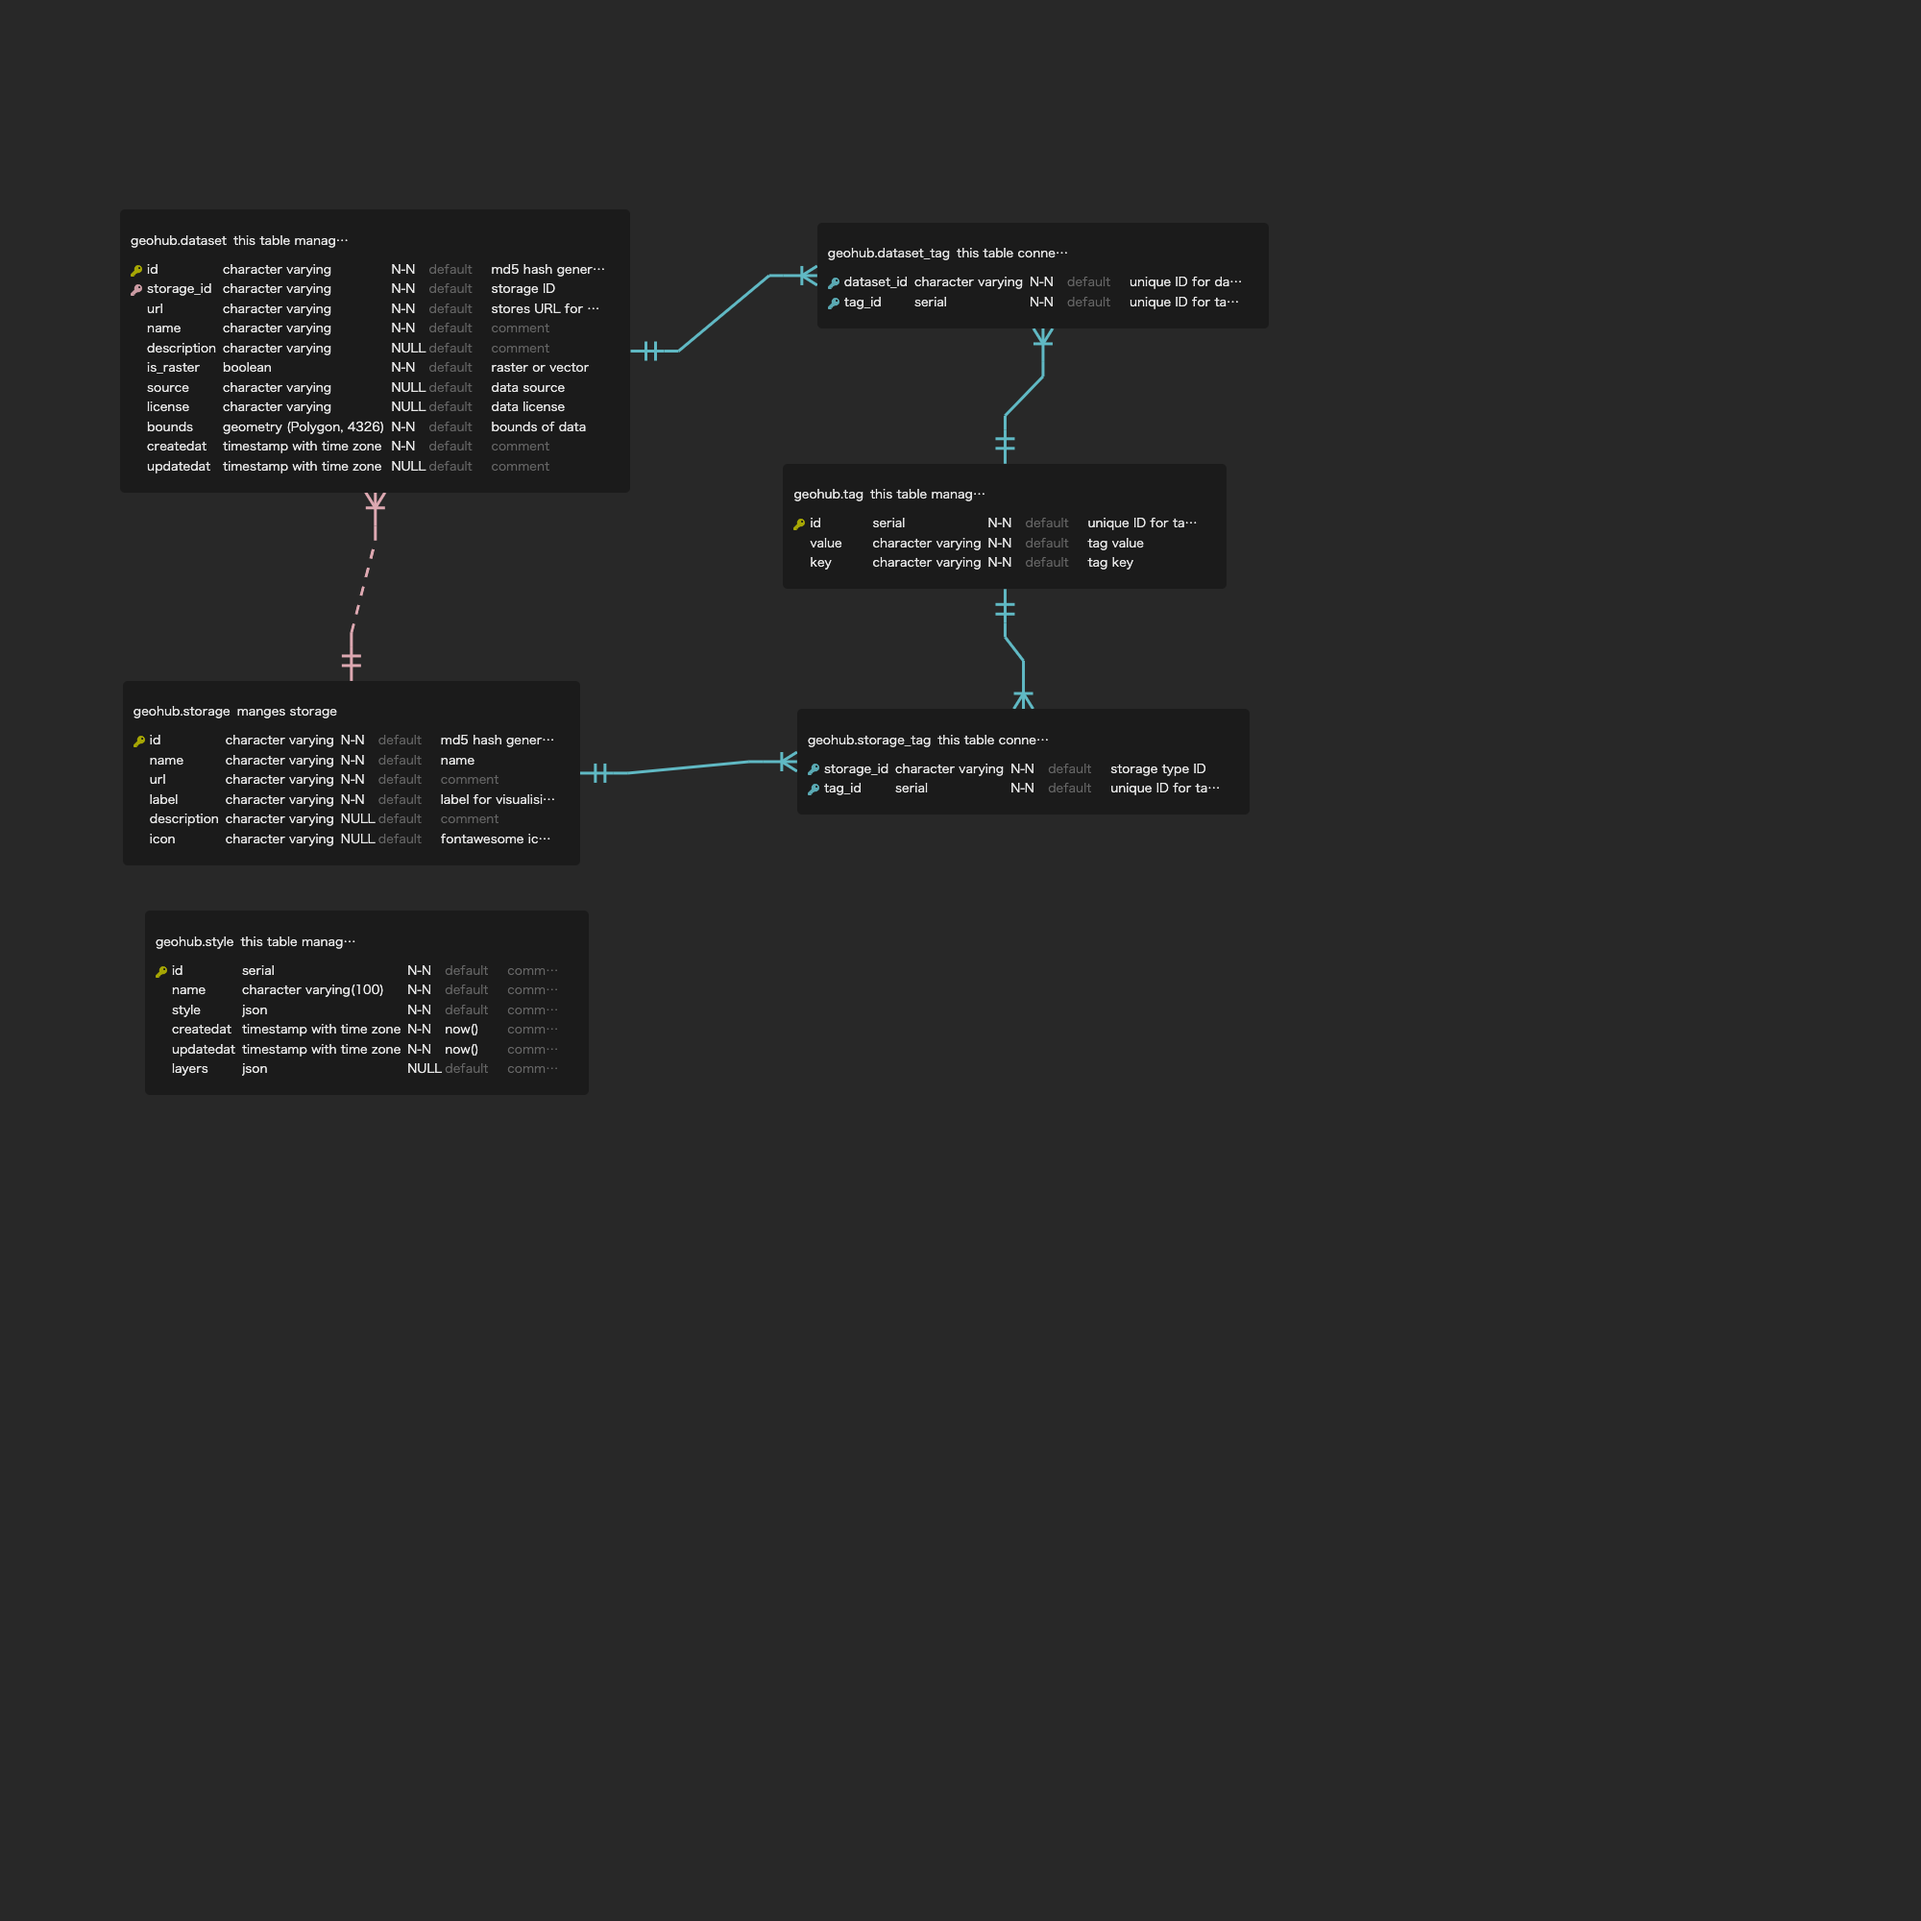
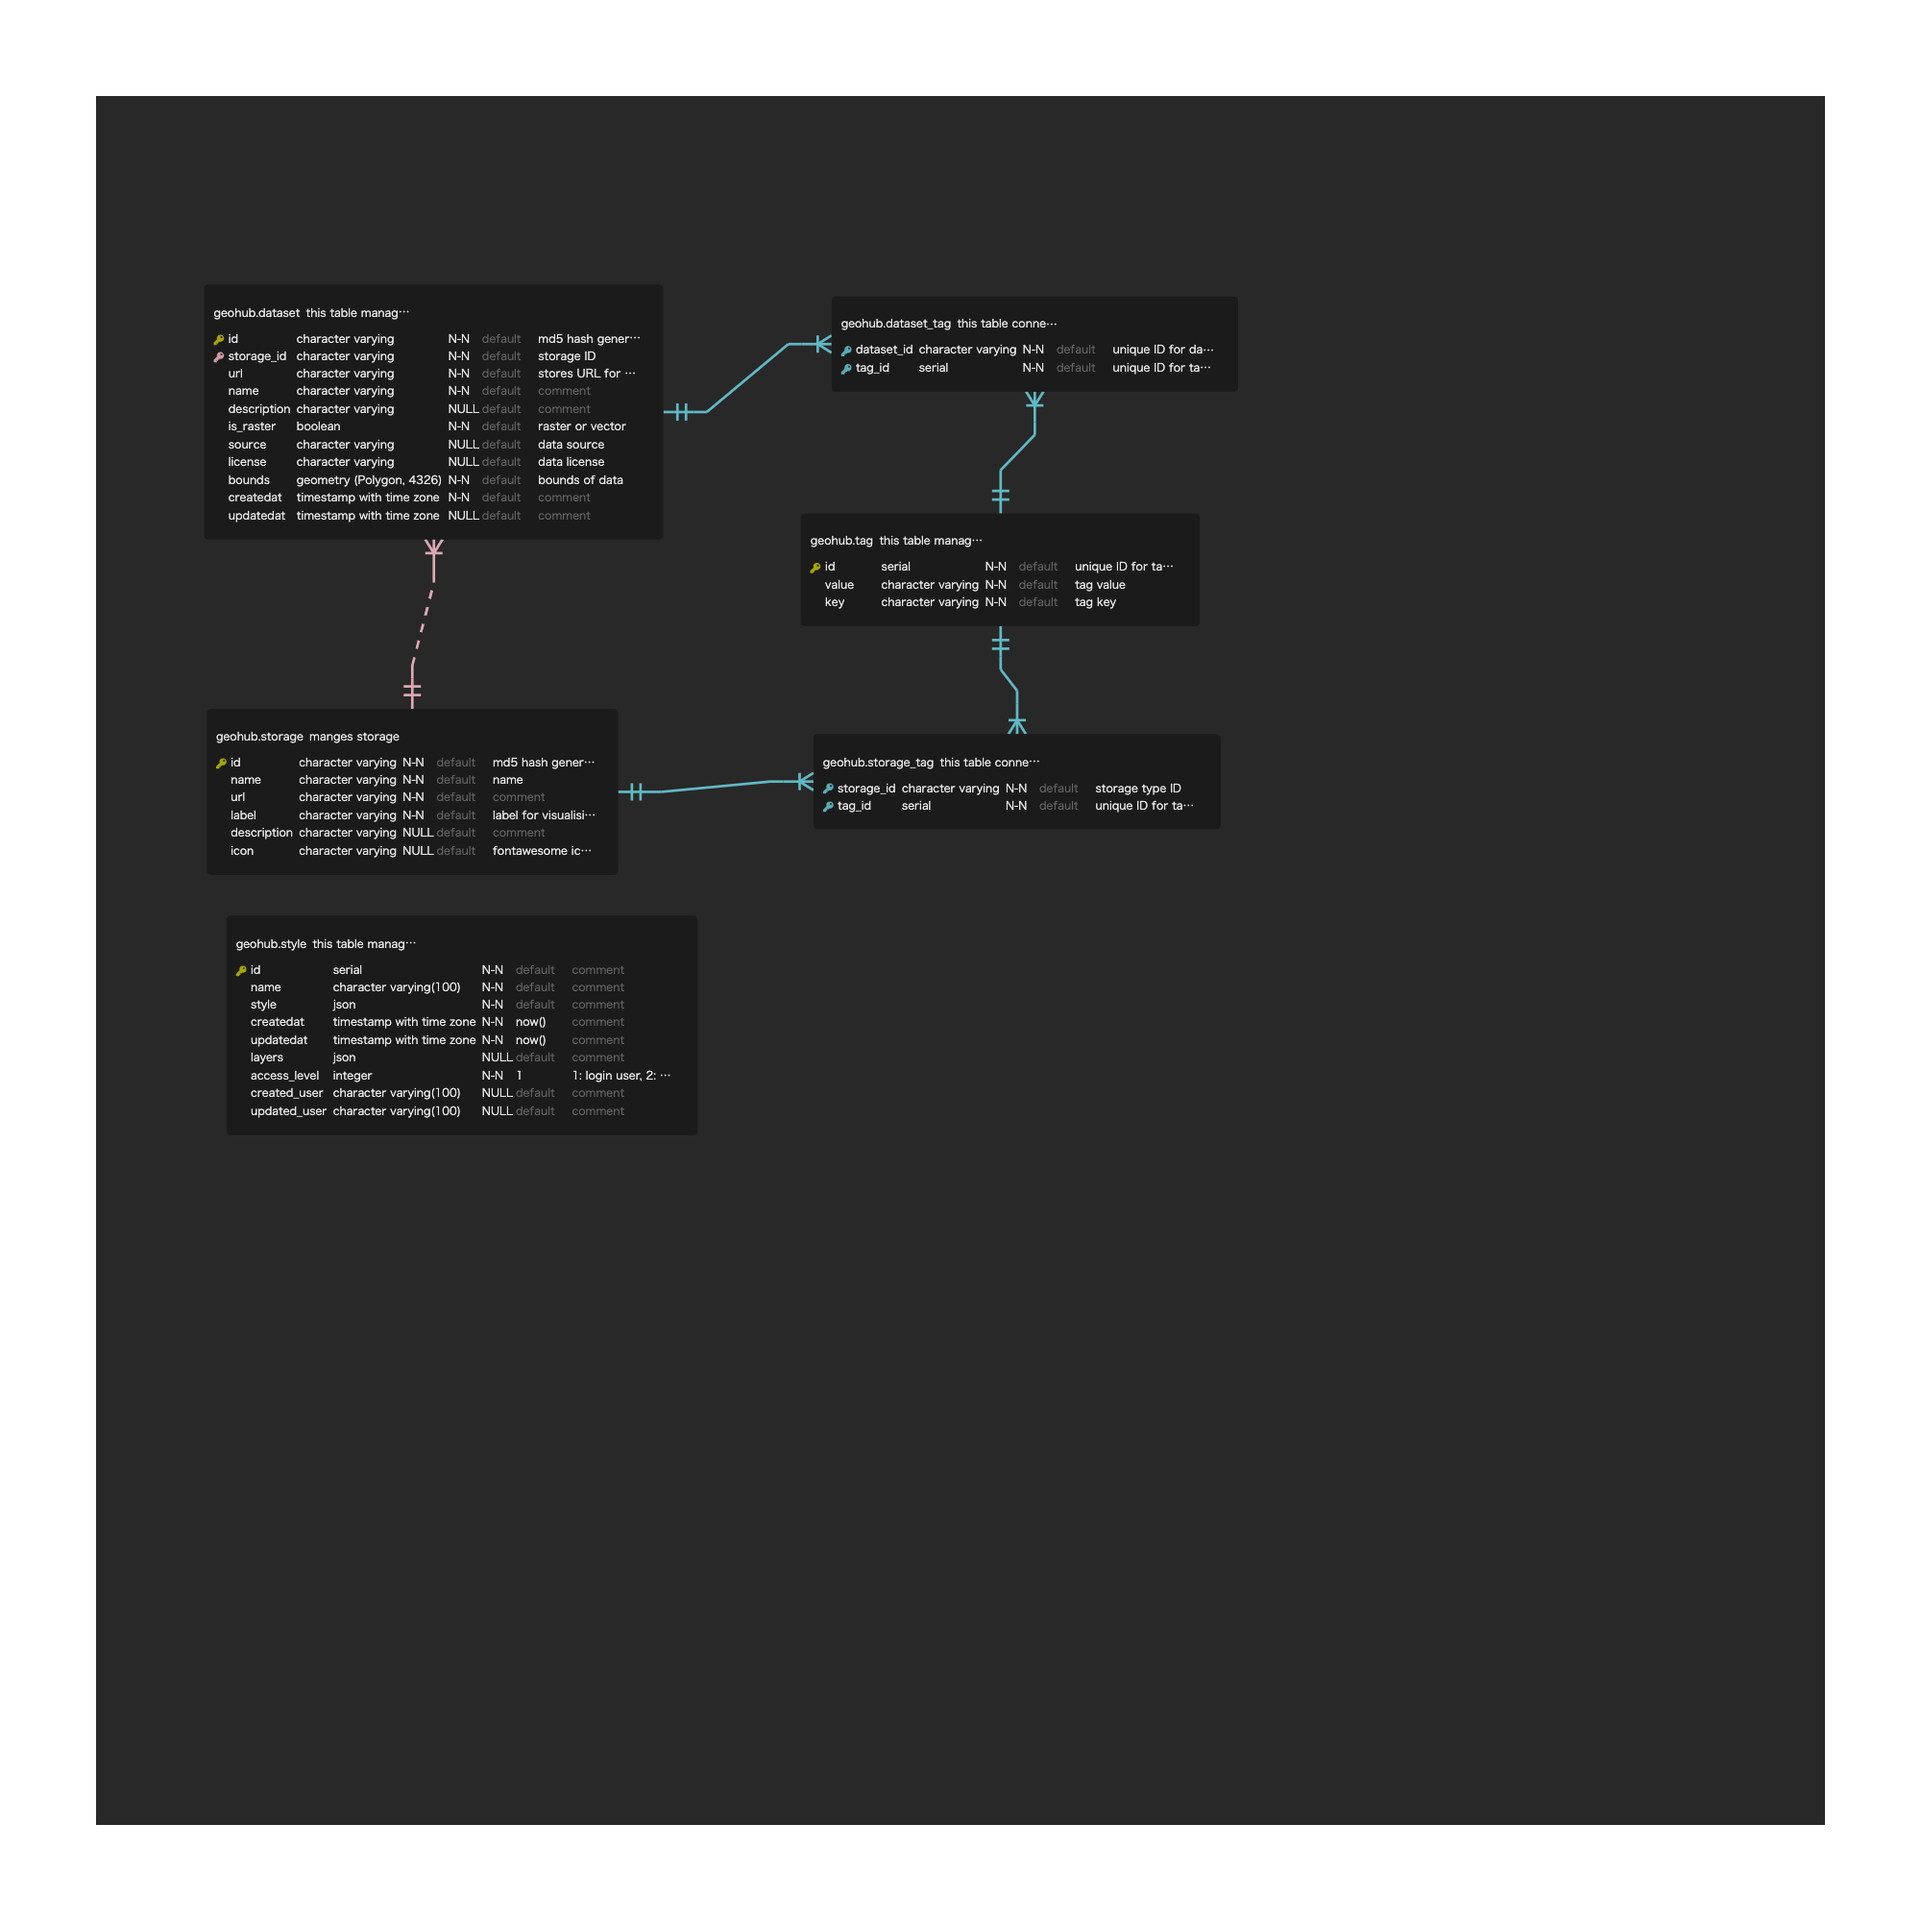
doc: add accesslevel to style table (#1212)

diff --git a/.changeset/small-hairs-fry.md b/.changeset/small-hairs-fry.md
@@ -1,0 +1,5 @@
+---
+"@undp-data/geohub-cli": patch
+---
+
+updated style table schema to add access level and user column
